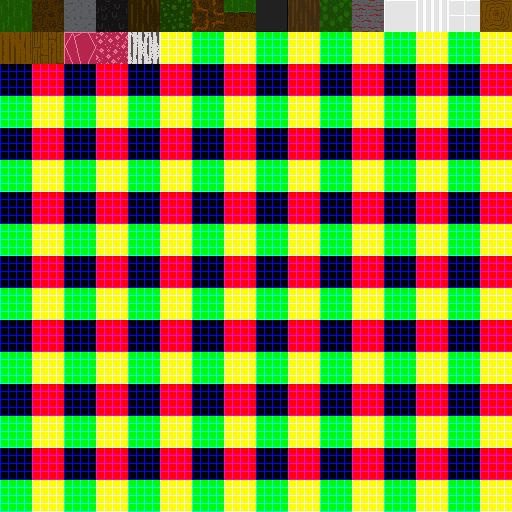
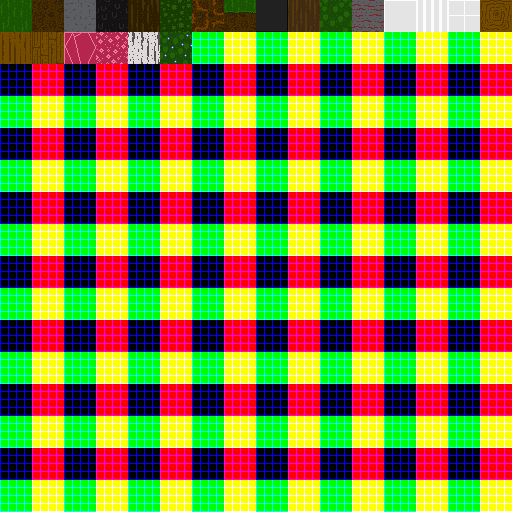
Added .give command and a new shrub block with flowers for visual diversity

Changed region(s): [[0.25, 0.0625, 0.375, 0.125]]

diff --git a/server/src/misc/command.c b/server/src/misc/command.c
@@ -1,6 +1,7 @@
 #define _DEFAULT_SOURCE
 #include "command.h"
 
+#include <ctype.h>
 #include <stdlib.h>
 #include <stdio.h>
 #include <string.h>
@@ -9,6 +10,22 @@
 #include "../../../common/src/network/messages.h"
 
 char replyBuf[256];
+
+static void cmdDmg(int c, const char *cmd){
+	int cmdLen = strnlen(cmd,252);
+	if((cmdLen > 3) && (cmd[3] == ' ')){
+		int target = getClientByName(cmd+4);
+		if(target >= 0){
+			msgPlayerDamage(target,1);
+		}else{
+			snprintf(replyBuf,sizeof(replyBuf),".dmg : Can't find '%s'\n",cmd+4);
+			replyBuf[sizeof(replyBuf)-1]=0;
+			serverSendChatMsg(replyBuf);
+		}
+		return;
+	}
+	msgPlayerDamage(c,1);
+}
 
 static void cmdDie(int c, const char *cmd){
 	int cmdLen = strnlen(cmd,252);
@@ -42,9 +59,28 @@ static void cmdHeal(int c, const char *cmd){
 	msgPlayerDamage(c,-1000);
 }
 
+static void cmdGive(int c, const char *cmd){
+	int cmdLen = strnlen(cmd,252);
+	if((cmdLen > 4) && (cmd[4] == ' ') && (isdigit(cmd[5]))){
+		int target = atoi(cmd+5);
+		if(target > 0){
+			msgPickupItem(c,target,1);
+			return;
+		}
+	}
+	snprintf(replyBuf,sizeof(replyBuf),".give : You have to type in an ItemID\n");
+	replyBuf[sizeof(replyBuf)-1]=0;
+	serverSendChatMsg(replyBuf);
+}
+
 int parseCommand(int c, const char *cmd){
 	if(cmd[0] != '.'){return 0;}
 	const char *tcmp = cmd+1;
+	
+	if(strncmp(tcmp,"dmg",3) == 0){
+		cmdDmg(c,tcmp);
+		return 1;
+	}
 	
 	if(strncmp(tcmp,"die",3) == 0){
 		cmdDie(c,tcmp);
@@ -53,6 +89,11 @@ int parseCommand(int c, const char *cmd){
 	
 	if(strncmp(tcmp,"heal",4) == 0){
 		cmdHeal(c,tcmp);
+		return 1;
+	}
+	
+	if(strncmp(tcmp,"give",4) == 0){
+		cmdGive(c,tcmp);
 		return 1;
 	}
 		

diff --git a/common/data/blocktypes.h b/common/data/blocktypes.h
@@ -18,3 +18,4 @@ blockTypeInitBlock(17,17, WOOD,  "Boards",         300, 0xFF09678f,0xFF1380af);
 blockTypeInitBlock(18,18, STONE, "Crystals",      2500, 0xFF997CE8,0xFF4D25B5);
 blockTypeInitBlock(19,19, WOOD,  "Sakura Leaves",   50, 0xFF997CE8,0xFF4D25B5);
 blockTypeInitBlock(20,20, WOOD,  "Birch Log",      500, 0xFF525255,0xFF525555);
+blockTypeInitBlock(21,21, LEAVES,"Flower Bush",     60, 0xFF004227,0xFF003318);

diff --git a/server/src/game/blockMining.c b/server/src/game/blockMining.c
@@ -46,7 +46,7 @@ void blockMiningDropItemsPos(int x, int y, int z, uint8_t b){
 	if(b == 7){return;}  // Roots
 	if(b == 2){ID = 1;}  // Grass
 	if(b == 8){ID = 1;}  // Roots
-	if((b == 6) || (b == 11) || (b == 19)){ // Leaves
+	if((b == 6) || (b == 11) || (b == 19) || (b == 21)){ // Leaves
 		if(rngValM(8)==0){
 			ID = 258;
 		}else{

diff --git a/server/src/game/worldgen.c b/server/src/game/worldgen.c
@@ -138,8 +138,7 @@ void worldgenRock(worldgen *wgen,int x,int y,int z,int w,int h,int d){
 
 void worldgenShrub(worldgen *wgen,int x,int y,int z){
 	chungus *clay = wgen->clay;
-	int leaveBlock = 11;
-	if(rngValM(2) == 0){leaveBlock = 6;}
+	int leaveBlock = 21;
 	chungusSetB(clay,x,y,z,8);
 
 	chungusSetB(clay,x,y+1,z,leaveBlock);
